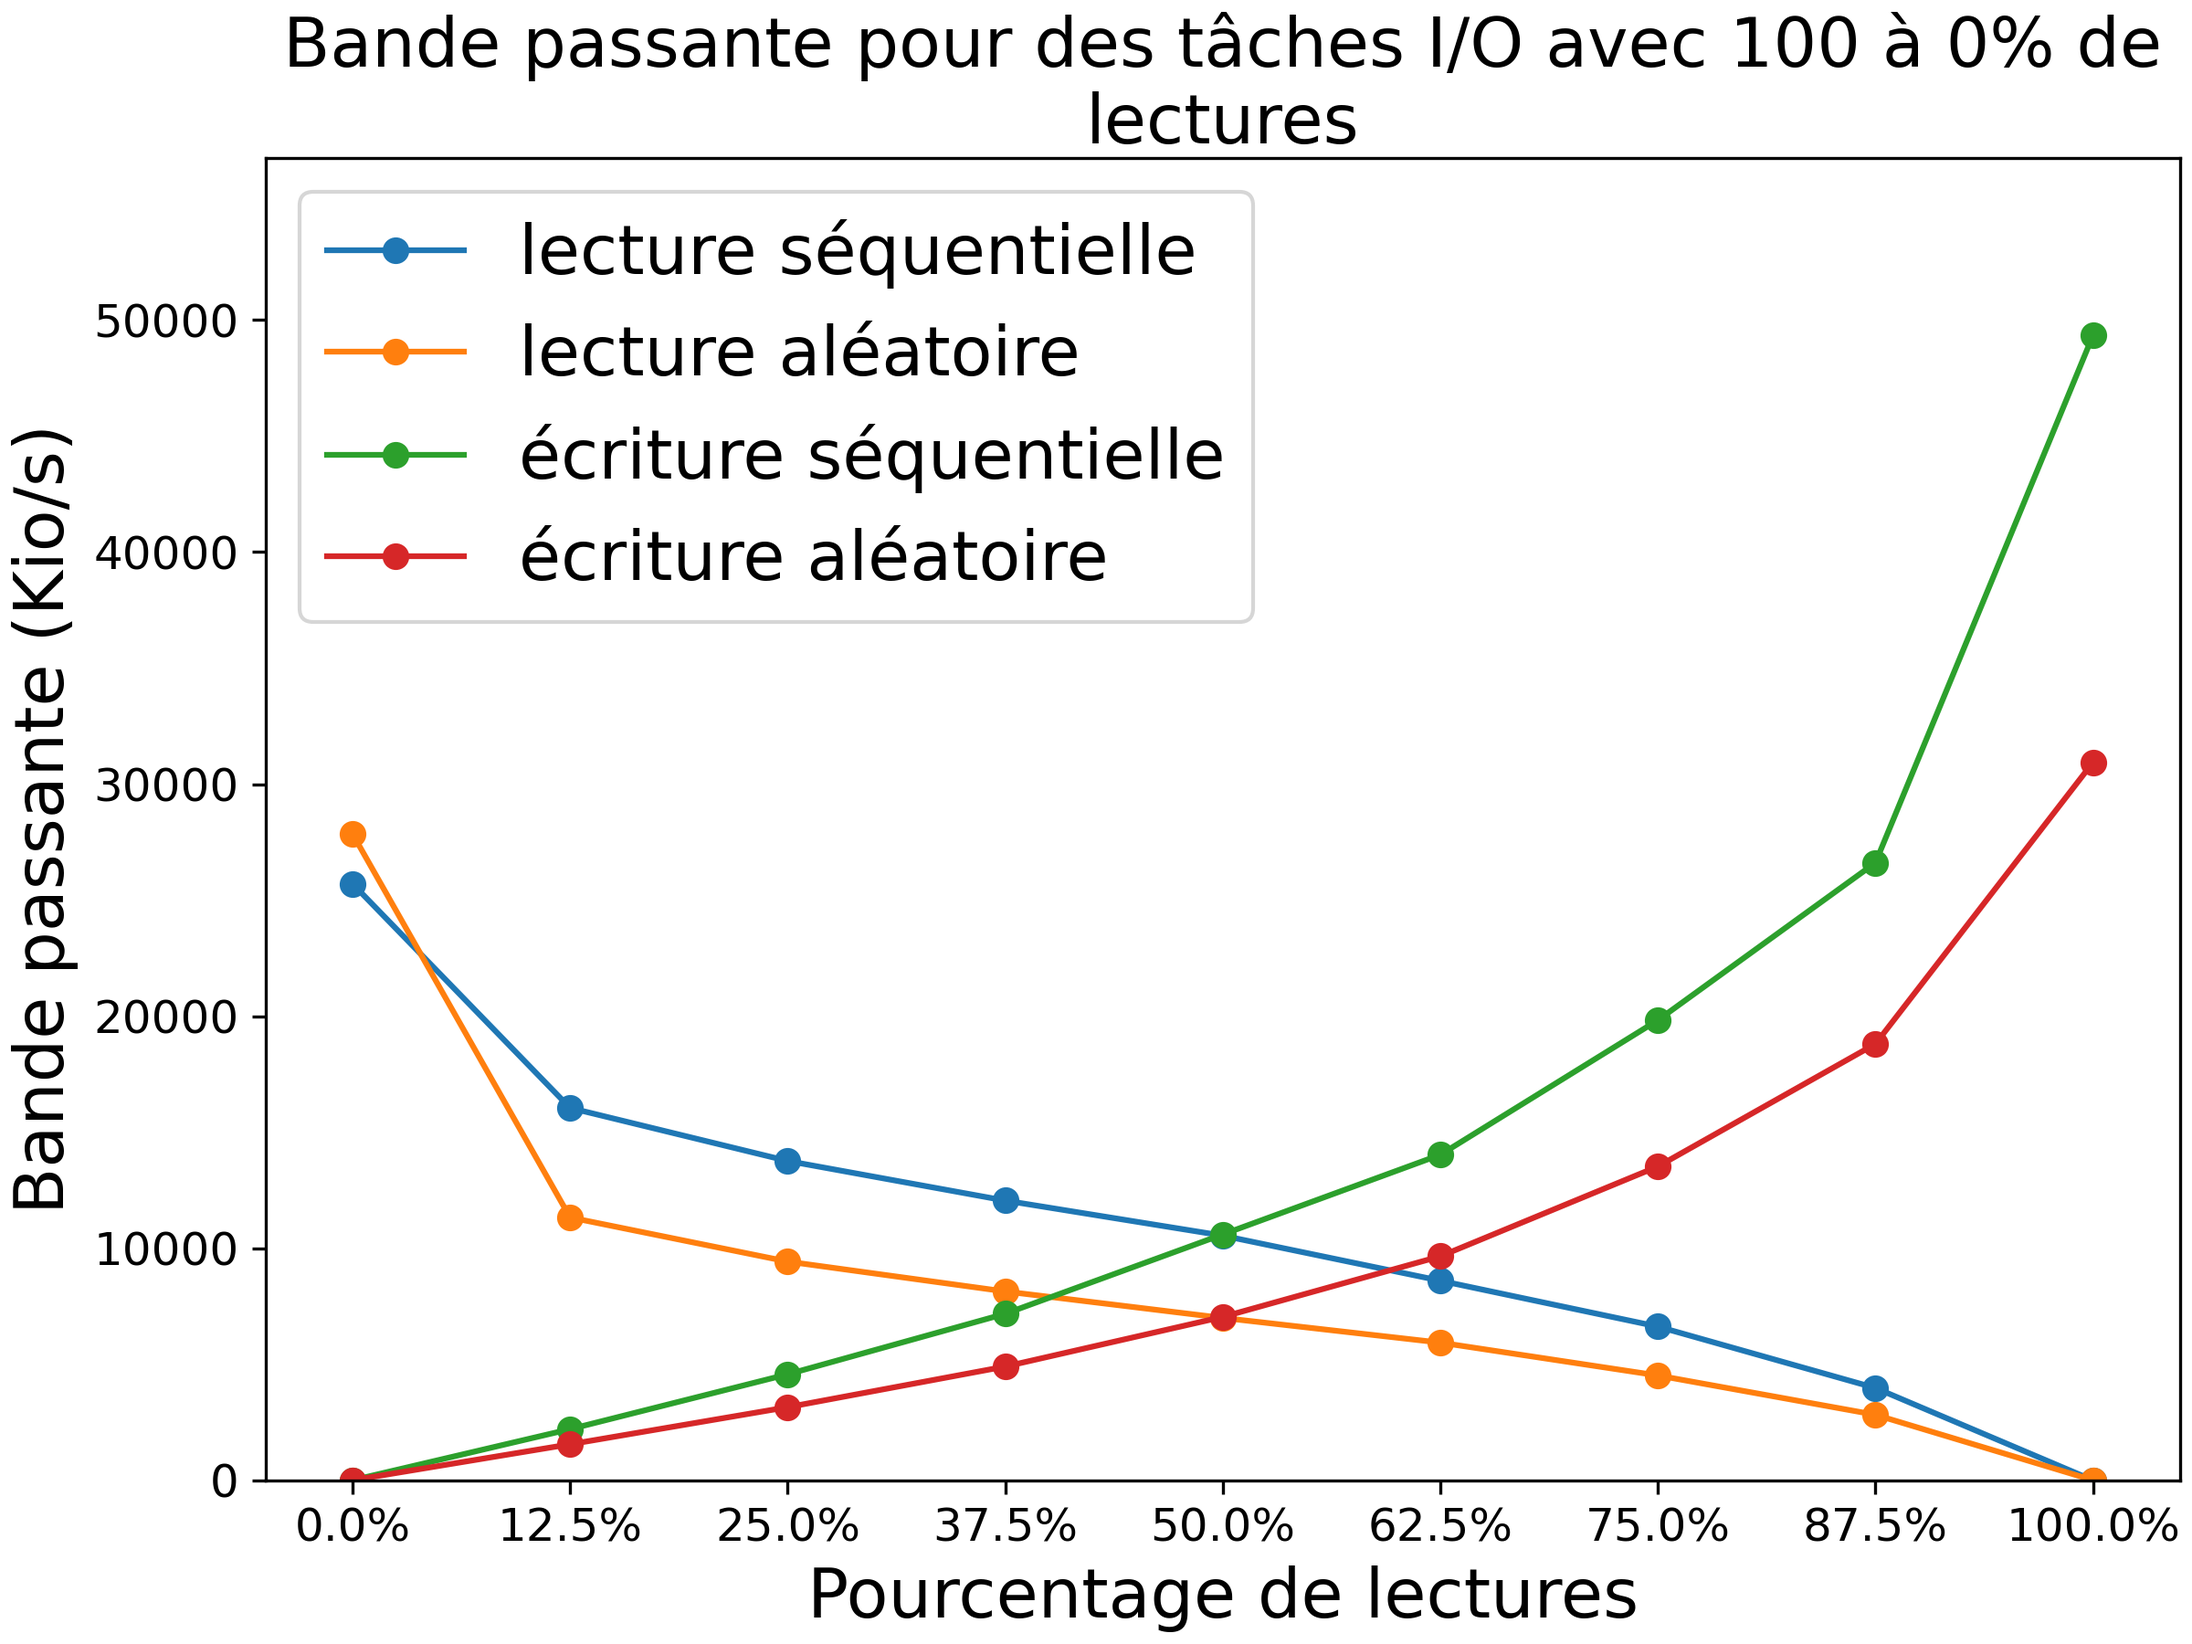
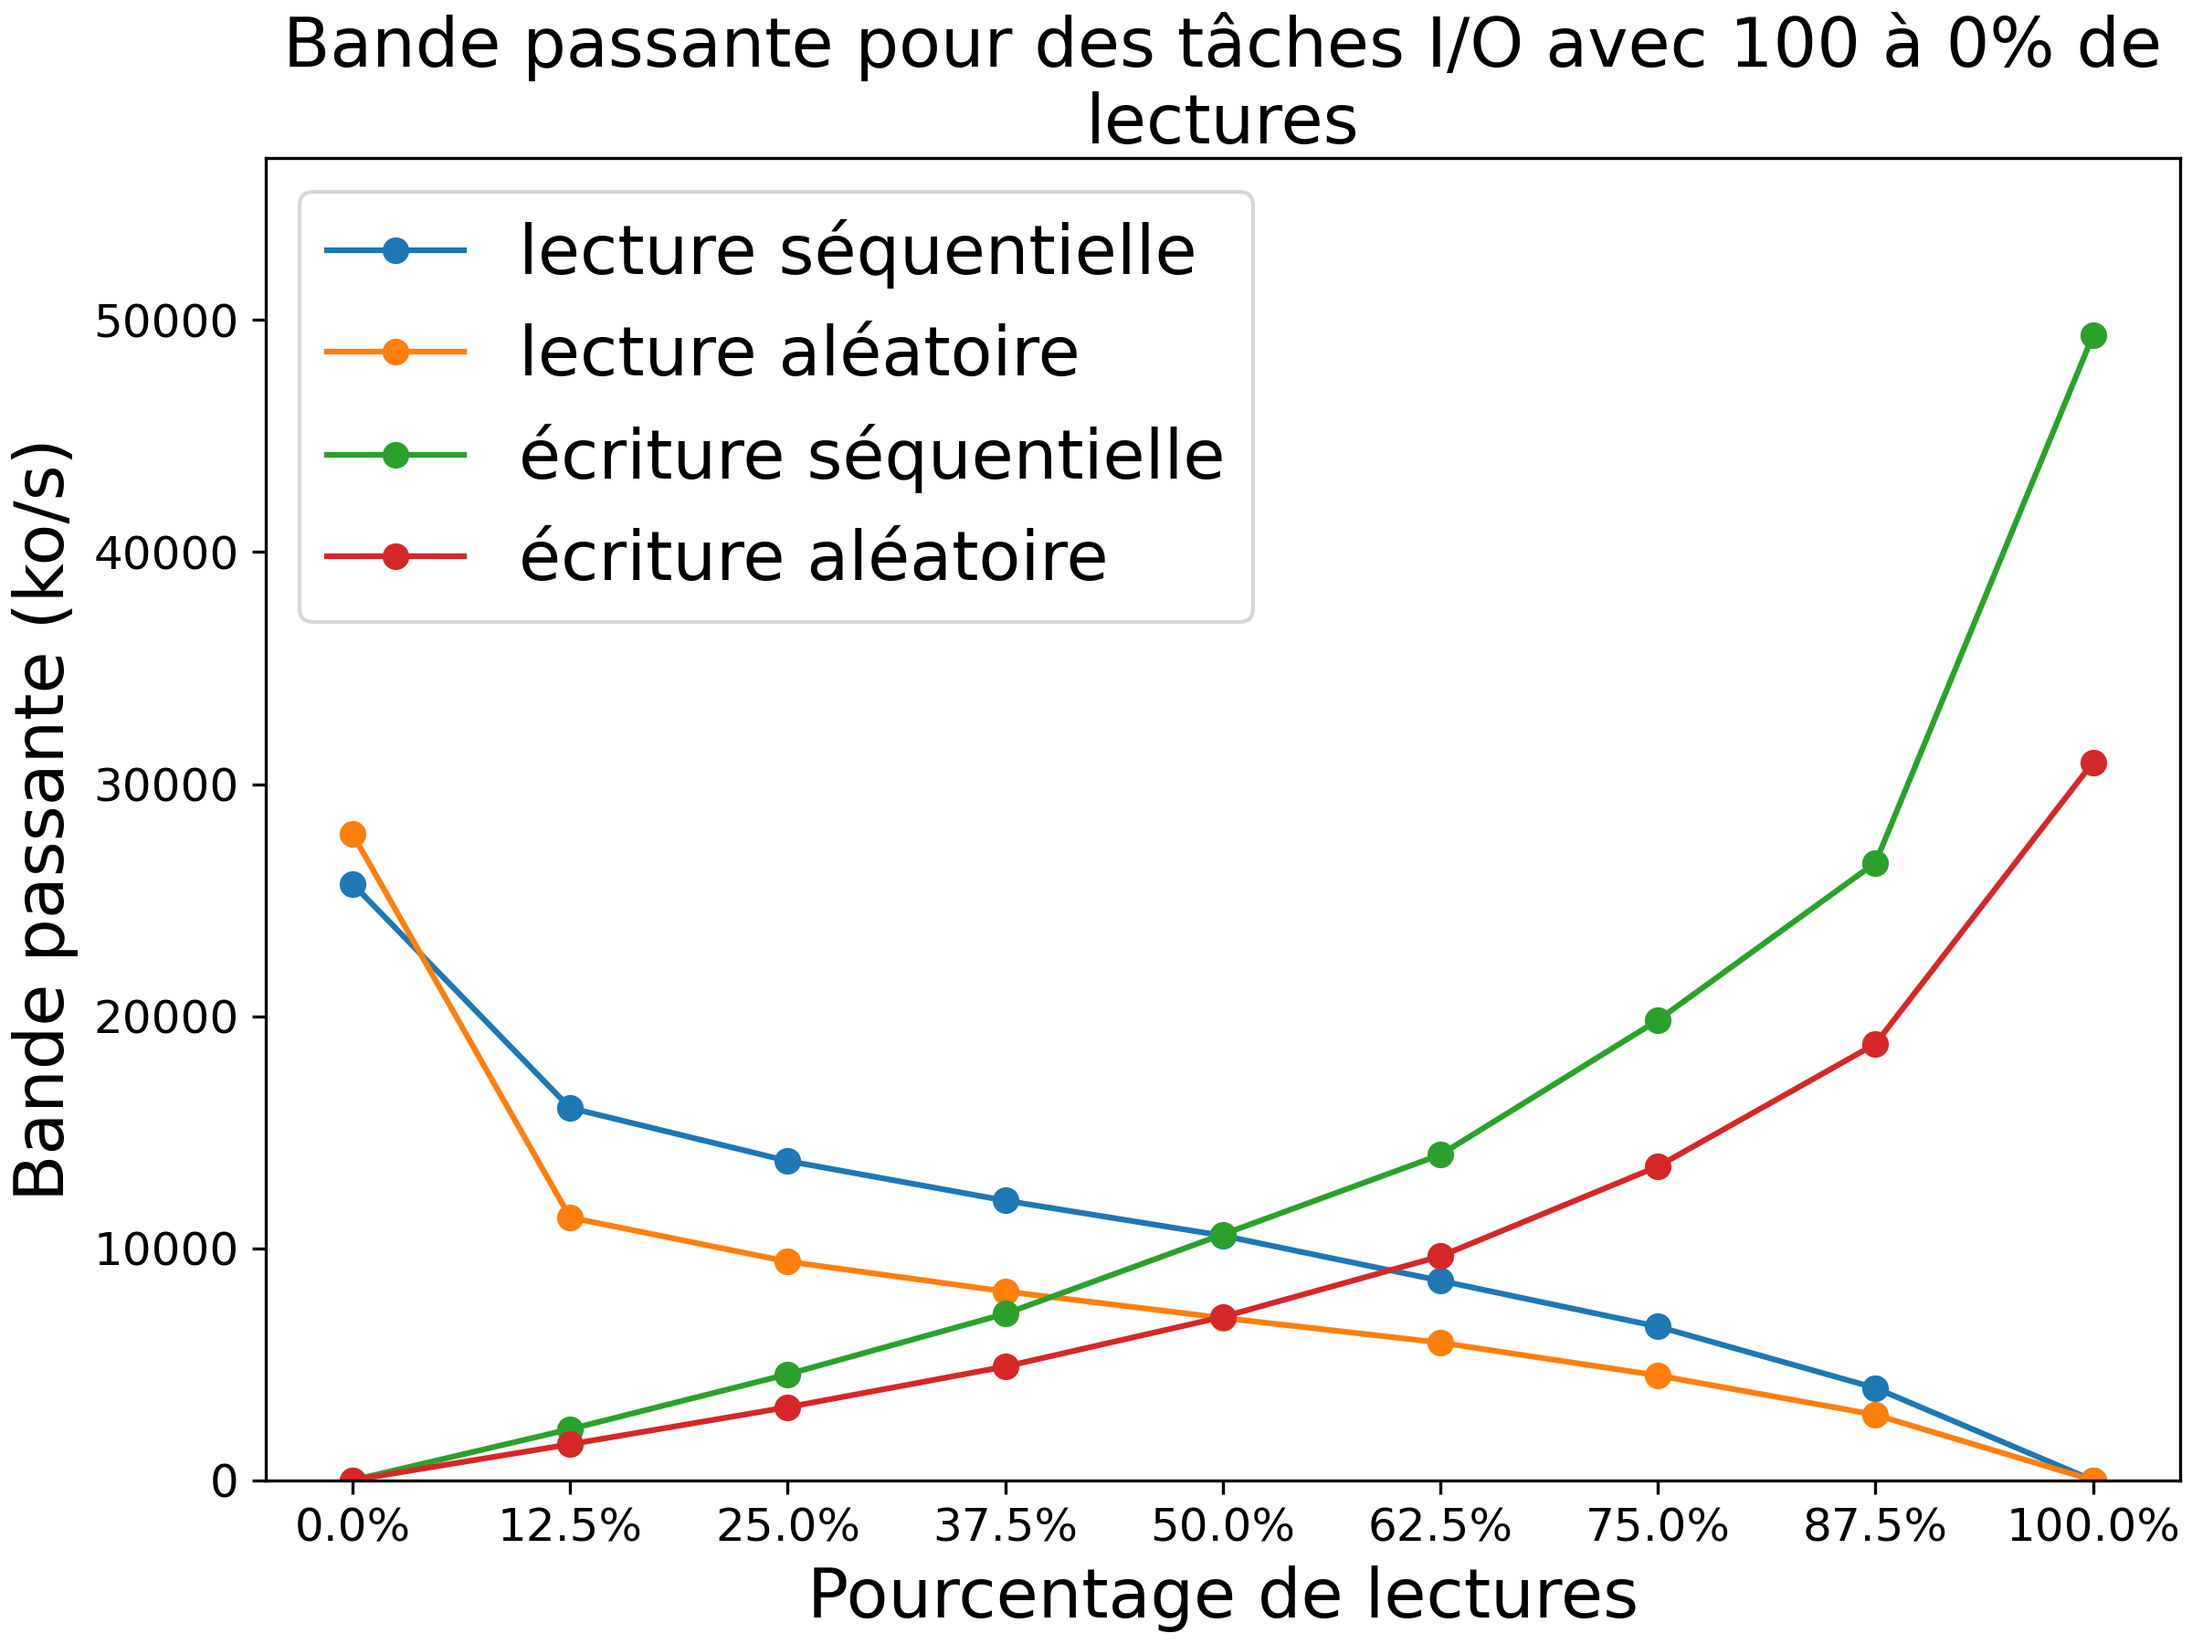
Kio/s -> ko/s

Changed region(s): [[0.0, 0.2489, 0.0312, 0.7467]]

diff --git a/question_4/graph.py b/question_4/graph.py
@@ -65,7 +65,7 @@ ax_read.bar(x, read_means)
 # ax_read.set_ylabel("Mean bandwidth (KiB/s)")
 ax_read.set_title("Bande passante moyenne en lecture pour des jobs utilisant 1 à 8 processus", wrap=True)
 ax_read.set_xlabel("Nombre de processus")
-ax_read.set_ylabel("Bande passante moyenne (Kio/s)")
+ax_read.set_ylabel("Bande passante moyenne (ko/s)")
 ax_read.set_xticks(x)
 ax_read.set_xticklabels(nb_procs)
 
@@ -75,7 +75,7 @@ ax_write.bar(x, write_means)
 # ax_write.set_ylabel("Mean bandwidth (KiB/s)")
 ax_write.set_title("Bande passante moyenne en écriture pour des jobs utilisant 1 à 8 processus", wrap=True)
 ax_write.set_xlabel("Nombre de processus")
-ax_write.set_ylabel("Bande passante moyenne (Kio/s)")
+ax_write.set_ylabel("Bande passante moyenne (ko/s)")
 ax_write.set_xticks(x)
 ax_write.set_xticklabels(nb_procs)
 
@@ -97,7 +97,7 @@ ax_read.plot(x, summed_read_bw.values(), marker="o")
 # ax_read.set_ylabel("Bandwidth (KiB/s)")
 ax_read.set_title("Bande passante cumulée en lecture pour des jobs utilisant 1 à 8 processus", wrap=True)
 ax_read.set_xlabel("Nombre de processus")
-ax_read.set_ylabel("Bande passante (Kio/s)")
+ax_read.set_ylabel("Bande passante (ko/s)")
 ax_read.set_xticks(x)
 
 ax_write.plot(x, summed_write_bw.values(), marker="o")
@@ -106,7 +106,7 @@ ax_write.plot(x, summed_write_bw.values(), marker="o")
 # ax_write.set_ylabel("Bandwidth (KiB/s)")
 ax_write.set_title("Bande passante cumulée en écriture pour des jobs utilisant 1 à 8 processus", wrap=True)
 ax_write.set_xlabel("Nombre de processus")
-ax_write.set_ylabel("Bande passante (Kio/s)")
+ax_write.set_ylabel("Bande passante (ko/s)")
 ax_write.set_xticks(x)
 
 if args.output is not None:

diff --git a/question_1/graph.py b/question_1/graph.py
@@ -47,7 +47,7 @@ ax_read.plot(x, rand_read_bw, marker="o", label="aléatoire")
 # ax_read.set_ylabel("Bandwidth (KiB/s)")
 ax_read.set_title("Bande passante pour des tâches I/O avec 100 à 0% de lectures", wrap=True)
 ax_read.set_xlabel("Pourcentage de lectures")
-ax_read.set_ylabel("Bande passante (Kio/s)")
+ax_read.set_ylabel("Bande passante (ko/s)")
 ax_read.set_xticks(x)
 ax_read.set_xticklabels([f"{100 - p}%" for p in x])
 ax_read.legend()
@@ -60,7 +60,7 @@ ax_write.plot(x, rand_write_bw, marker="o", label="aléatoire")
 # ax_write.set_ylabel("Bandwidth (KiB/s)")
 ax_write.set_title("Bande passante pour des tâches I/O avec O à 100% d'écritures", wrap=True)
 ax_write.set_xlabel("Pourcentage d'écritures")
-ax_write.set_ylabel("Bande passante (Kio/s)")
+ax_write.set_ylabel("Bande passante (ko/s)")
 ax_write.set_xticks(x)
 ax_write.set_xticklabels([f"{p}%" for p in x])
 ax_write.legend()
@@ -84,7 +84,7 @@ ax.plot(x, rand_write_bw, marker="o", label="écriture aléatoire")
 
 ax.set_title("Bande passante pour des tâches I/O avec 100 à 0% de lectures", wrap=True)
 ax.set_xlabel("Pourcentage de lectures")
-ax.set_ylabel("Bande passante (Kio/s)")
+ax.set_ylabel("Bande passante (ko/s)")
 ax.set_xticks(x)
 ax.set_xticklabels([f"{p}%" for p in x])
 # ax.set_yscale("symlog")

diff --git a/question_2/graph.py b/question_2/graph.py
@@ -43,7 +43,7 @@ ax_read.plot(x, var_read_bw, marker="o")
 
 ax_read.set_title("Bande passante en lecture pour des tailles de requêtes allant jusqu'à 1Mo", wrap=True)
 ax_read.set_xlabel("Taille de requête (Octets)")
-ax_read.set_ylabel("Bande passante (Kio/s)")
+ax_read.set_ylabel("Bande passante (ko/s)")
 ax_read.set_xticks(x)
 ax_read.set_xticklabels(block_sizes)
 
@@ -52,7 +52,7 @@ ax_write.plot(x, var_write_bw, marker="o")
 # ax_write.set_title("Write bandwidth for request sizes up to 1MB")
 ax_write.set_title("Bande passante en écriture pour des tailles de requêtes allant jusqu'à 1Mo", wrap=True)
 ax_write.set_xlabel("Taille de requête (Octets)")
-ax_write.set_ylabel("Bande passante (Kio/s)")
+ax_write.set_ylabel("Bande passante (ko/s)")
 ax_write.set_xticks(x)
 ax_write.set_xticklabels(block_sizes)
 
